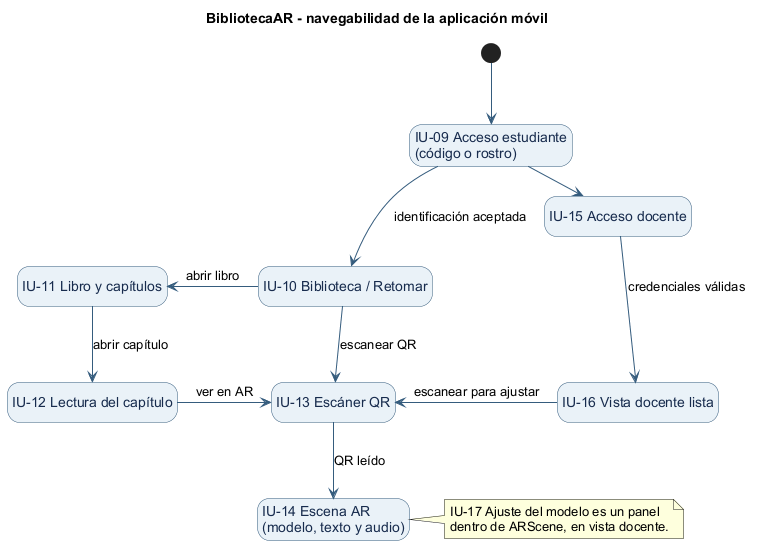
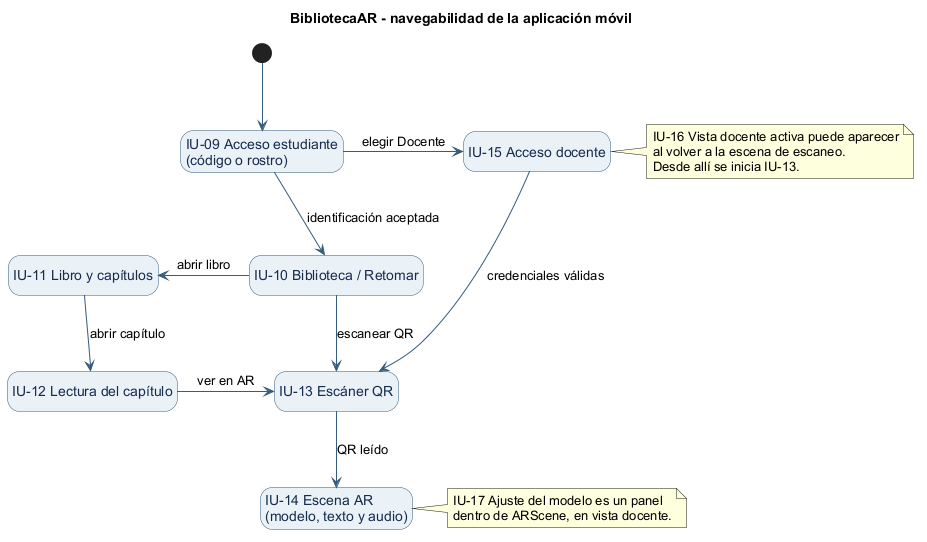
Document interface transitions for thesis

diff --git a/docs/tesis/transiciones-interfaces.md b/docs/tesis/transiciones-interfaces.md
@@ -1,0 +1,65 @@
+# Transiciones entre interfaces de BibliotecaAR
+
+Las tablas siguientes resumen los recorridos principales del panel docente y de la aplicación Android. Los códigos corresponden al [catálogo de interfaces](catalogo-interfaces.md) y a los diagramas de [navegabilidad web](diagramas/07-navegacion-panel-docente.png) y [navegabilidad móvil](diagramas/08-navegacion-app-movil.png). Las acciones que solo actualizan datos o muestran mensajes conservan la misma interfaz.
+
+## Panel docente web
+
+| Origen | Acción | Destino |
+| --- | --- | --- |
+| IU-01 | Iniciar sesión o registrar una cuenta docente correctamente. | IU-02 |
+| IU-01 | Introducir credenciales inválidas o datos de registro incorrectos. | IU-01, con mensaje de error |
+| IU-02 | Elegir «Nuevo libro» o editar un libro desde su tarjeta. | IU-03 |
+| IU-02 | Abrir un libro del catálogo. | IU-04 |
+| IU-03 | Guardar el libro. | IU-04, detalle del libro guardado |
+| IU-03 | Volver sin guardar. | IU-02 si es nuevo; IU-04 si se editaba |
+| IU-04 | Volver al catálogo o eliminar el libro tras confirmar. | IU-02 |
+| IU-04 | Elegir «Editar libro». | IU-03 |
+| IU-04 | Crear un capítulo o editar uno existente. | IU-05 |
+| IU-05 | Guardar el capítulo o volver. | IU-04 |
+| IU-04 | Consultar el QR, descargar el PDF o abrir la vista 3D. | IU-04; son acciones dentro del detalle |
+| IU-02 | Abrir la pestaña «Estudiantes». | IU-06 |
+| IU-06 | Registrar un estudiante o editar su perfil. | IU-07 |
+| IU-07 | Guardar un estudiante nuevo. | IU-06 con IU-08 superpuesto |
+| IU-07 | Guardar cambios de un estudiante existente o volver. | IU-06 |
+| IU-06 | Generar o restablecer un código de acceso. | IU-06 con IU-08 superpuesto |
+| IU-08 | Cerrar el diálogo después de consultar o copiar el código. | IU-06 |
+| IU-06 | Abrir la pestaña «Biblioteca». | IU-02 |
+| IU-02 a IU-07 | Cerrar sesión; confirmar la salida si hay cambios sin guardar. | IU-01 |
+
+*Tabla. Transiciones principales del panel docente web. Fuente: elaboración propia a partir de la implementación de BibliotecaAR.*
+
+## Aplicación móvil Android
+
+| Origen | Acción | Destino |
+| --- | --- | --- |
+| Apertura de la app | No hay sesión de estudiante recordada. | IU-09 |
+| Apertura de la app | El estudiante tiene una sesión recordada y vigente. | IU-10 |
+| IU-09 | Entrar con código personal o acceso facial aceptado. | IU-10 |
+| IU-09 | El código o el rostro no se reconoce. | IU-09, con opción de reintentar o usar código |
+| IU-09 | Elegir «Docente». | IU-15 |
+| IU-10 | Abrir un libro asignado o explorado. | IU-11 |
+| IU-10 | Elegir «Continuar leyendo». | IU-12, tras cargar el capítulo |
+| IU-11 | Abrir un capítulo. | IU-12 |
+| IU-11 | Volver a la biblioteca. | IU-10 |
+| IU-12 | Volver al libro. | IU-11 |
+| IU-12 | Escuchar, pausar o marcar el capítulo como leído. | IU-12 |
+| IU-10 / IU-12 | Elegir «Escanear QR» o «Ver en AR · Escanear». | IU-13 |
+| IU-13 | Leer un QR de un capítulo disponible. | IU-14 |
+| IU-13 | Denegar la cámara o no lograr leer el código. | IU-13, con indicaciones y reintento |
+| IU-13 | Elegir «Biblioteca» o «Salir vista docente». | IU-10 si hay estudiante con sesión; IU-09 en caso contrario |
+| IU-14 | Elegir «Escanear otro QR». | IU-13 |
+| IU-14 | Leer, escuchar, pausar o marcar el capítulo como leído. | IU-14 |
+| IU-10 | Elegir «Cambiar estudiante». | IU-09 |
+| IU-10 | Elegir «Ajustar modelos sobre la página». | IU-15 |
+| IU-15 | Ingresar credenciales docentes válidas. | IU-13, listo para escanear el capítulo |
+| IU-15 | Elegir «Volver» o fallar la autenticación. | IU-10 o IU-09 al volver; IU-15 si falla |
+| IU-16 | Elegir «Escanear capítulo». | IU-13 |
+| IU-16 | Elegir «Salir del modo docente». | IU-10 si hay estudiante con sesión; IU-09 en caso contrario |
+| IU-14 | En vista docente, elegir «Ajustar modelo». | IU-17, panel sobre la escena AR |
+| IU-17 | Ajustar valores, guardar o deshacer cambios. | IU-17 |
+| IU-17 | Elegir «Ver modelo». | IU-14 |
+| IU-10 a IU-12 | La sesión del estudiante vence durante una consulta protegida. | IU-09 |
+
+*Tabla. Transiciones principales de la aplicación móvil. Fuente: elaboración propia a partir de la implementación de BibliotecaAR.*
+
+`IU-16` aparece cuando se abre la escena de escaneo con una vista docente todavía activa y sin una orden inmediata de escanear. Tras iniciar sesión como docente desde `IU-15`, el código abre directamente el escáner `IU-13`. La apertura de la app no tiene un código IU propio porque no existe una pantalla de arranque independiente en el catálogo.

diff --git a/docs/tesis/catalogo-interfaces.md b/docs/tesis/catalogo-interfaces.md
@@ -25,3 +25,5 @@ BibliotecaAR tiene un panel web para docentes y una aplicación Android para est
 **Criterio de catalogación.** `IU-08` es una ventana emergente y `IU-17` es un panel superpuesto. Los formularios de inicio y registro docente comparten `IU-01`; el acceso por código y por rostro comparten `IU-09`. El visor GLB, la tarjeta QR y la descarga PDF son acciones dentro de `IU-04` o `IU-05`, no pantallas independientes. Los estados de carga y error aparecen dentro de las interfaces correspondientes. El acceso facial está implementado como función experimental y no equivale a una validación biométrica de producción.
 
 *Fuente: elaboración propia a partir del código de BibliotecaAR, BiblitoecaAR-fronted y BibliotecaAR-backend, revisado el 29 de octubre de 2026.*
+
+Las [tablas de transiciones](transiciones-interfaces.md) usan estos mismos códigos para explicar qué acción lleva de una interfaz a otra.

diff --git a/README.md b/README.md
@@ -29,6 +29,8 @@ Las [figuras para la tesis](docs/tesis/diagramas/README.md) comparan los tipos d
 
 El [catálogo de interfaces](docs/tesis/catalogo-interfaces.md) identifica las vistas web y móviles con códigos IU. También está disponible [en Word](docs/tesis/catalogo-interfaces.docx) para incorporarlo a la tesis.
 
+Las [tablas de transiciones entre interfaces](docs/tesis/transiciones-interfaces.md) documentan los recorridos web y móviles con esos códigos; incluyen una [versión Word](docs/tesis/transiciones-interfaces.docx).
+
 **Vocabulario:** un «capítulo» del panel es un registro `Scene` de Django. No es una escena Unity: `QRScanScene` y `ARScene` son las pantallas del cliente móvil. El QR contiene un identificador, no una URL. `prefab_key` identifica un recurso local Unity; `glb_model` es un archivo descargable.
 
 ## 2. Tecnologías y estructura

diff --git a/docs/tesis/diagramas/README.md b/docs/tesis/diagramas/README.md
@@ -4,6 +4,8 @@ Estas figuras se prepararon a partir del código de los tres repositorios de Bib
 
 El [catálogo de interfaces](../catalogo-interfaces.md) usa los códigos IU que aparecen en los diagramas de navegabilidad. También existe una [versión Word](../catalogo-interfaces.docx) lista para copiar en la tesis.
 
+Después de los diagramas de navegabilidad pueden colocarse las [tablas de transiciones web y móvil](../transiciones-interfaces.md), disponibles también [en Word](../transiciones-interfaces.docx).
+
 ## Qué hay en los borradores
 
 | Tipo de figura | Tesis de Alejandro | Referencia 1 | Referencia 2 | Acción |
